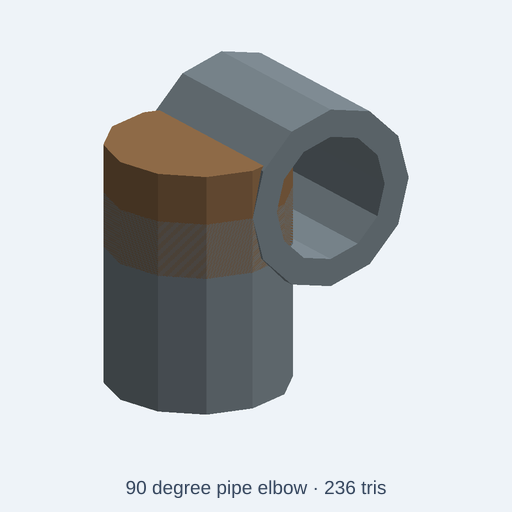
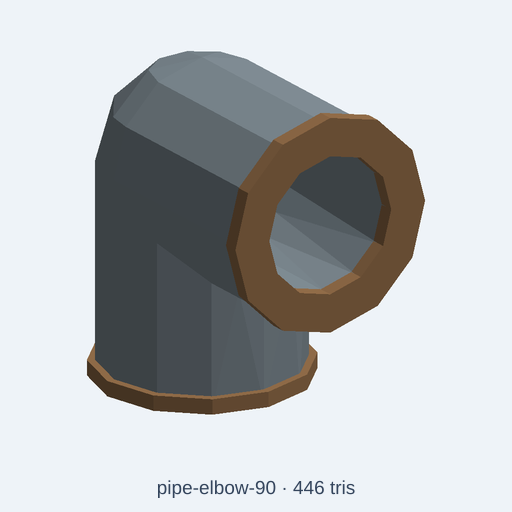
fix(catalog): make 90-degree elbow a connected open passage

Changed region(s): [[0.1562, 0.0938, 0.8438, 0.8125], [0.25, 0.9375, 0.75, 0.9688], [0.2812, 0.5, 0.375, 0.5625]]

diff --git a/catalog/kits/standard-components/pipe-elbow-90.kcad.ts b/catalog/kits/standard-components/pipe-elbow-90.kcad.ts
@@ -1,20 +1,22 @@
-// Distinctive geometry: Low-poly 90 degree elbow fitting with two hollow perpendicular pipe ends
+// SPDX-License-Identifier: CC0-1.0
+// Illustrative low-poly 90° pipe elbow with one connected, open fluid passage.
+// It is a scene prop, not a pressure-rated or dimensionally certified fitting.
 meta({
   name: 'pipe-elbow-90',
   license: 'CC0-1.0',
   title: '90 degree pipe elbow',
-  description: 'Low-poly 90 degree elbow fitting with two hollow perpendicular pipe ends Knobs: model size, steel, bronze.',
+  description: 'Illustrative elbow with two perpendicular open ports and a connected Ø18 mm passage at standard size. Bronze-colored end collars are separate visual bodies. Not pressure-rated CAD. Knobs: model size and finish colors.',
   tags: ['pipe elbow', '90 degree elbow', 'plumbing fitting', 'tube'],
   kit: 'standard-components',
   category: 'attachment',
   origin: 'base',
   compat: ['mechanical', 'industrial', 'workshop', 'assembly'],
-  triangleBudget: 380,
+  triangleBudget: 560,
 });
 
 const size = param('size', 'standard', { choices: ['compact', 'standard', 'large'], label: 'Model size' });
-const steel = param('steel', '#85929a', { label: 'Steel' });
-const bronze = param('bronze', '#98714c', { label: 'Bronze' });
+const steel = param('steel', '#85929a', { label: 'Body finish color (visual only)' });
+const bronze = param('bronze', '#98714c', { label: 'Collar finish color (visual only)' });
 presets({
   dark: { steel: '#3e484e', bronze: '#684d37' },
   brass: { steel: '#646f75', bronze: '#b0804d' },
@@ -23,8 +25,23 @@ presets({
 
 const s = size.value === 'compact' ? 0.75 : size.value === 'large' ? 1.25 : 1;
 const a = assembly('pipe-elbow-90');
-const r=13*s, len=26*s, z0=0;
-a.part('upright',cylinder(28*s,r,12).subtract(cylinder(30*s,9*s,12).translate(0,0,-s)).translate(-len/2,0,z0).color(steel));
-a.part('branch',cylinder(len,r,12).subtract(cylinder(len+2*s,9*s,12).translate(0,0,-s)).rotateX(90).translate(0,len/2,28*s).color(steel));
-a.part('bend',cylinder(15*s,r,12).translate(-len/2,0,20*s).color(bronze));
+const outerRadius = 13 * s;
+const boreRadius = 9 * s;
+const elbowHeight = 28 * s;
+const outletLength = 26 * s;
+// Fuse both crossing outer tubes *before* cutting the common bore. The old
+// separate tubes and solid bend visually concealed two blocked/disconnected ports.
+const outer = cylinder(elbowHeight, outerRadius, 16)
+  .union(cylinder(outletLength, outerRadius, 16).rotateY(90).translate(0, 0, elbowHeight))
+  .union(sphere(outerRadius).translate(0, 0, elbowHeight));
+const verticalPassage = cylinder(elbowHeight + 2 * s, boreRadius, 16).translate(0, 0, -s);
+const sidePassage = cylinder(outletLength + 2 * s, boreRadius, 16)
+  .rotateY(90).translate(-s, 0, elbowHeight);
+const shell = outer.subtract(verticalPassage.union(sidePassage));
+a.part('one-piece-open-elbow', shell.color(steel));
+const collar = cylinder(2 * s, 14 * s, 16)
+  .subtract(cylinder(4 * s, boreRadius, 16).translate(0, 0, -s));
+a.part('inlet-reinforcing-collar', collar.color(bronze));
+a.part('outlet-reinforcing-collar', collar.rotateY(90)
+  .translate(outletLength - s, 0, elbowHeight).color(bronze));
 return a.model();
